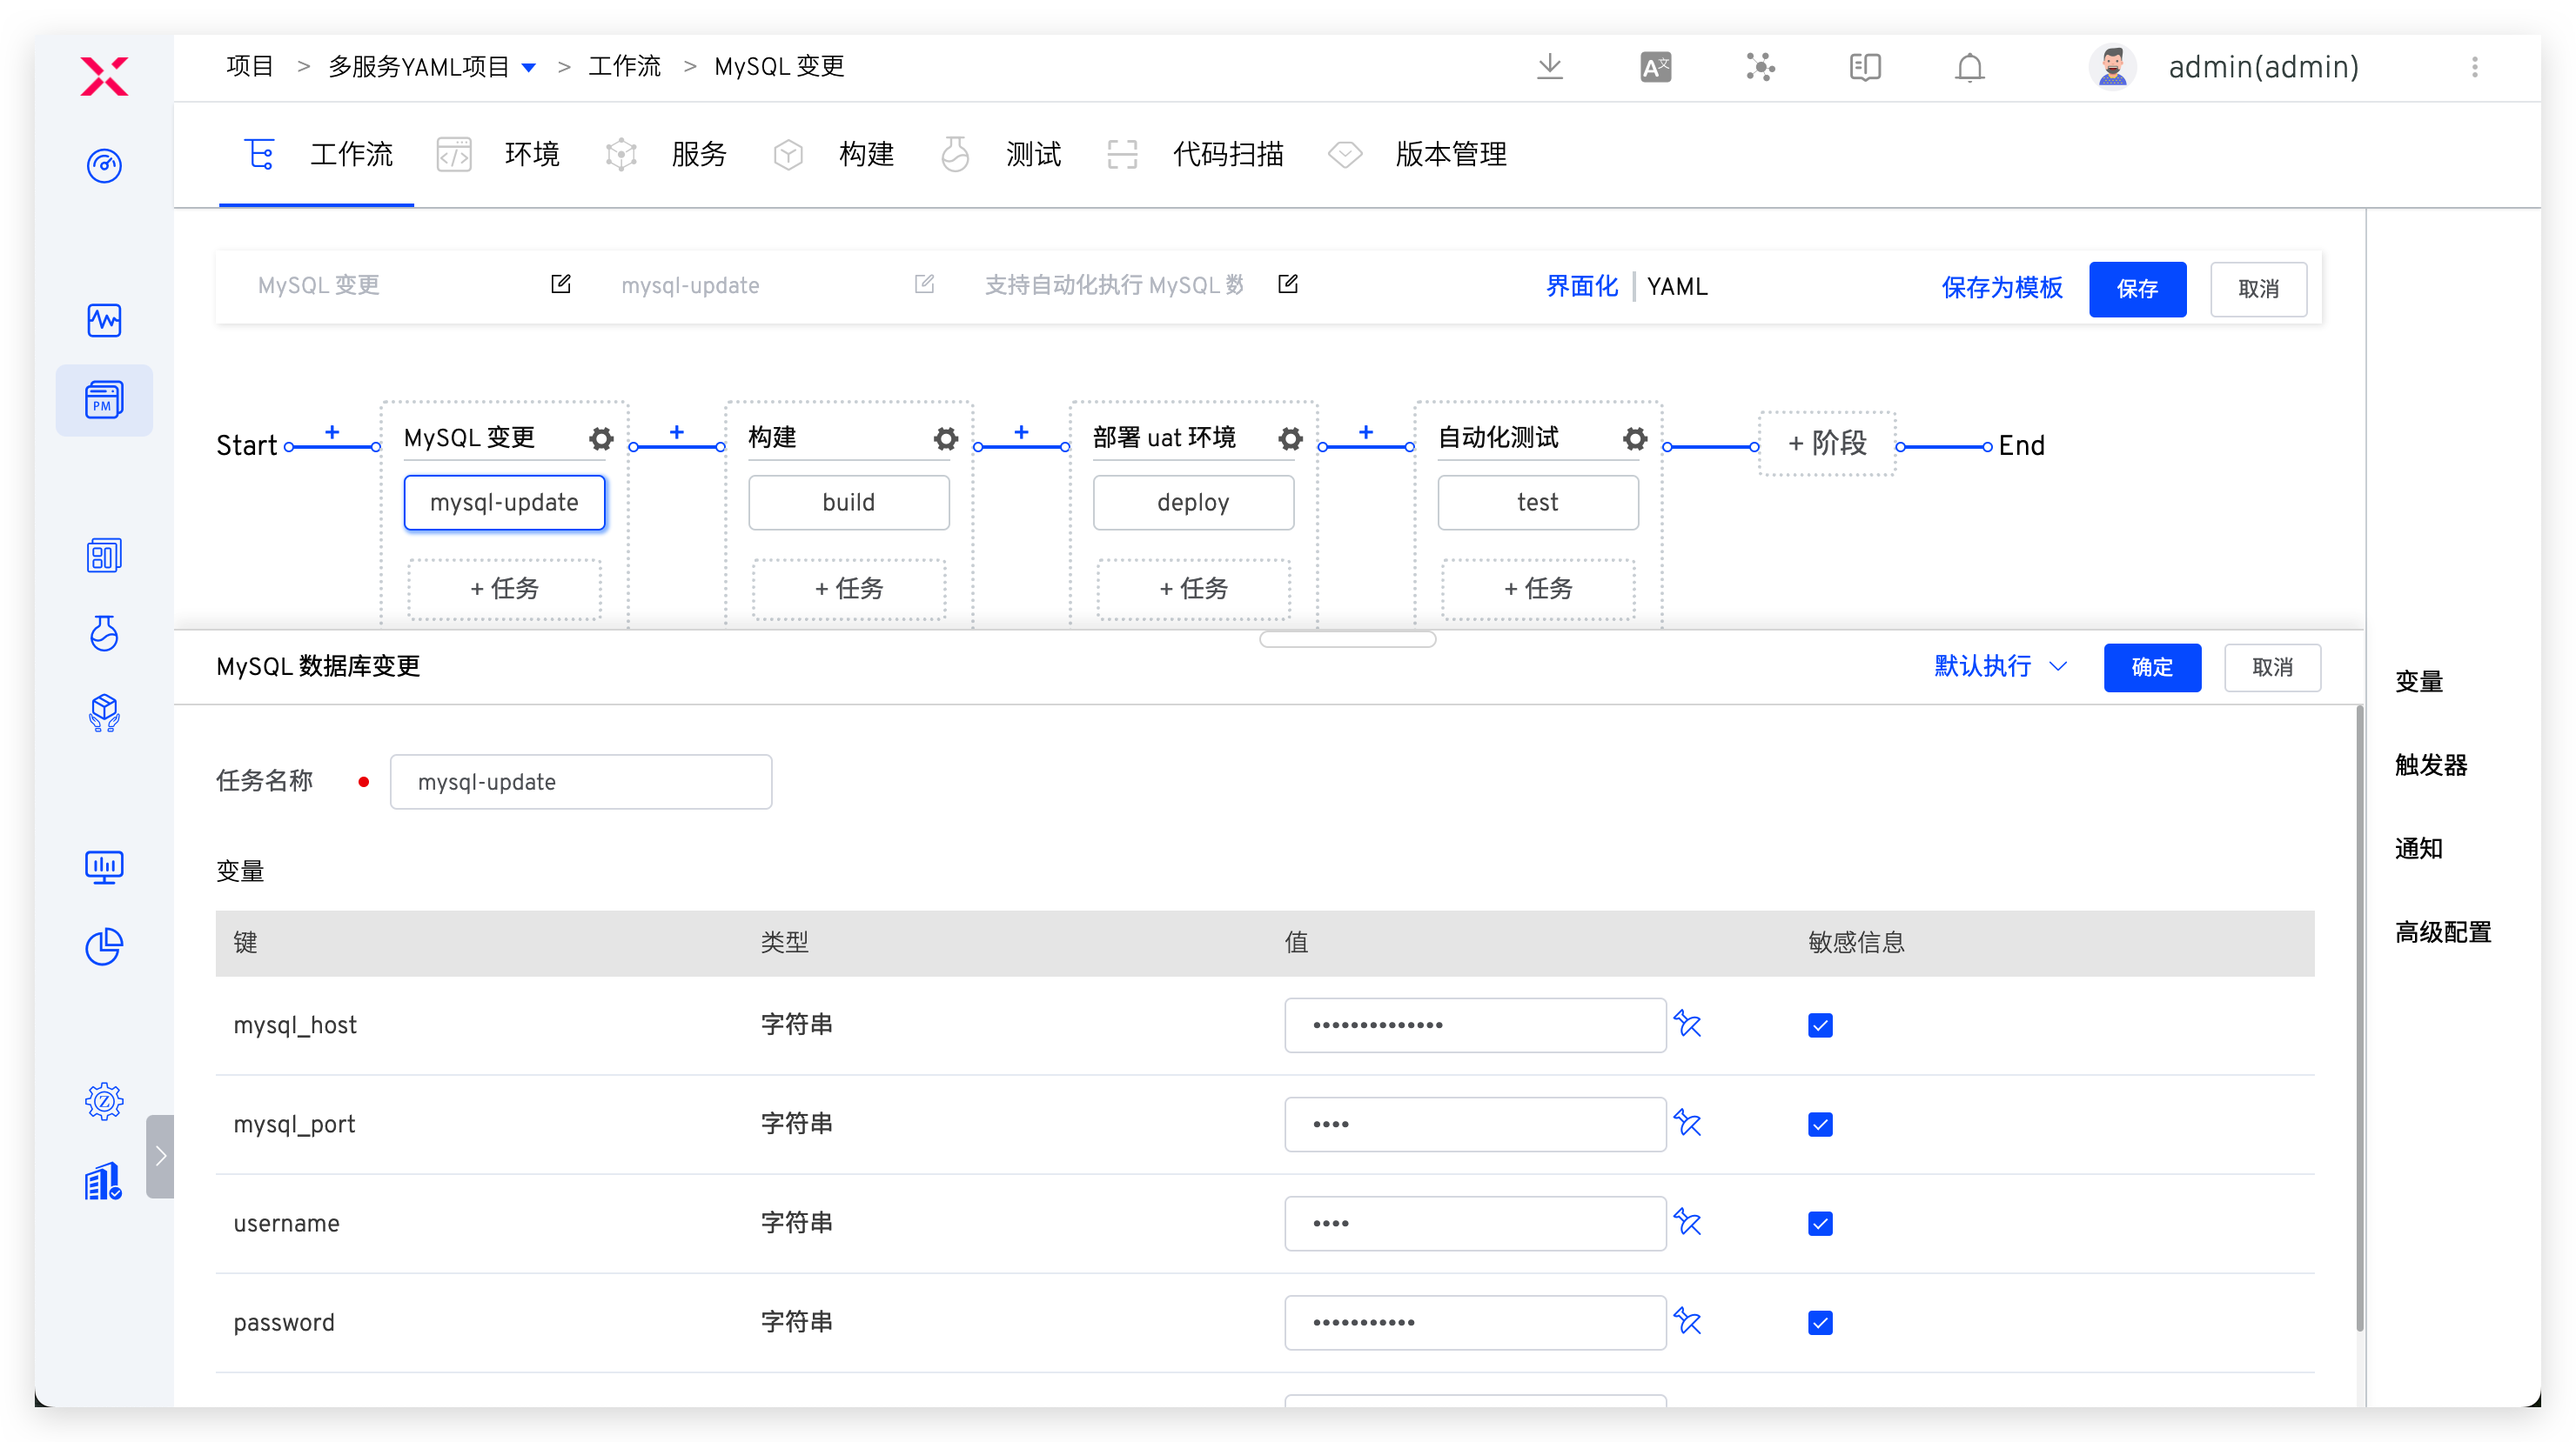
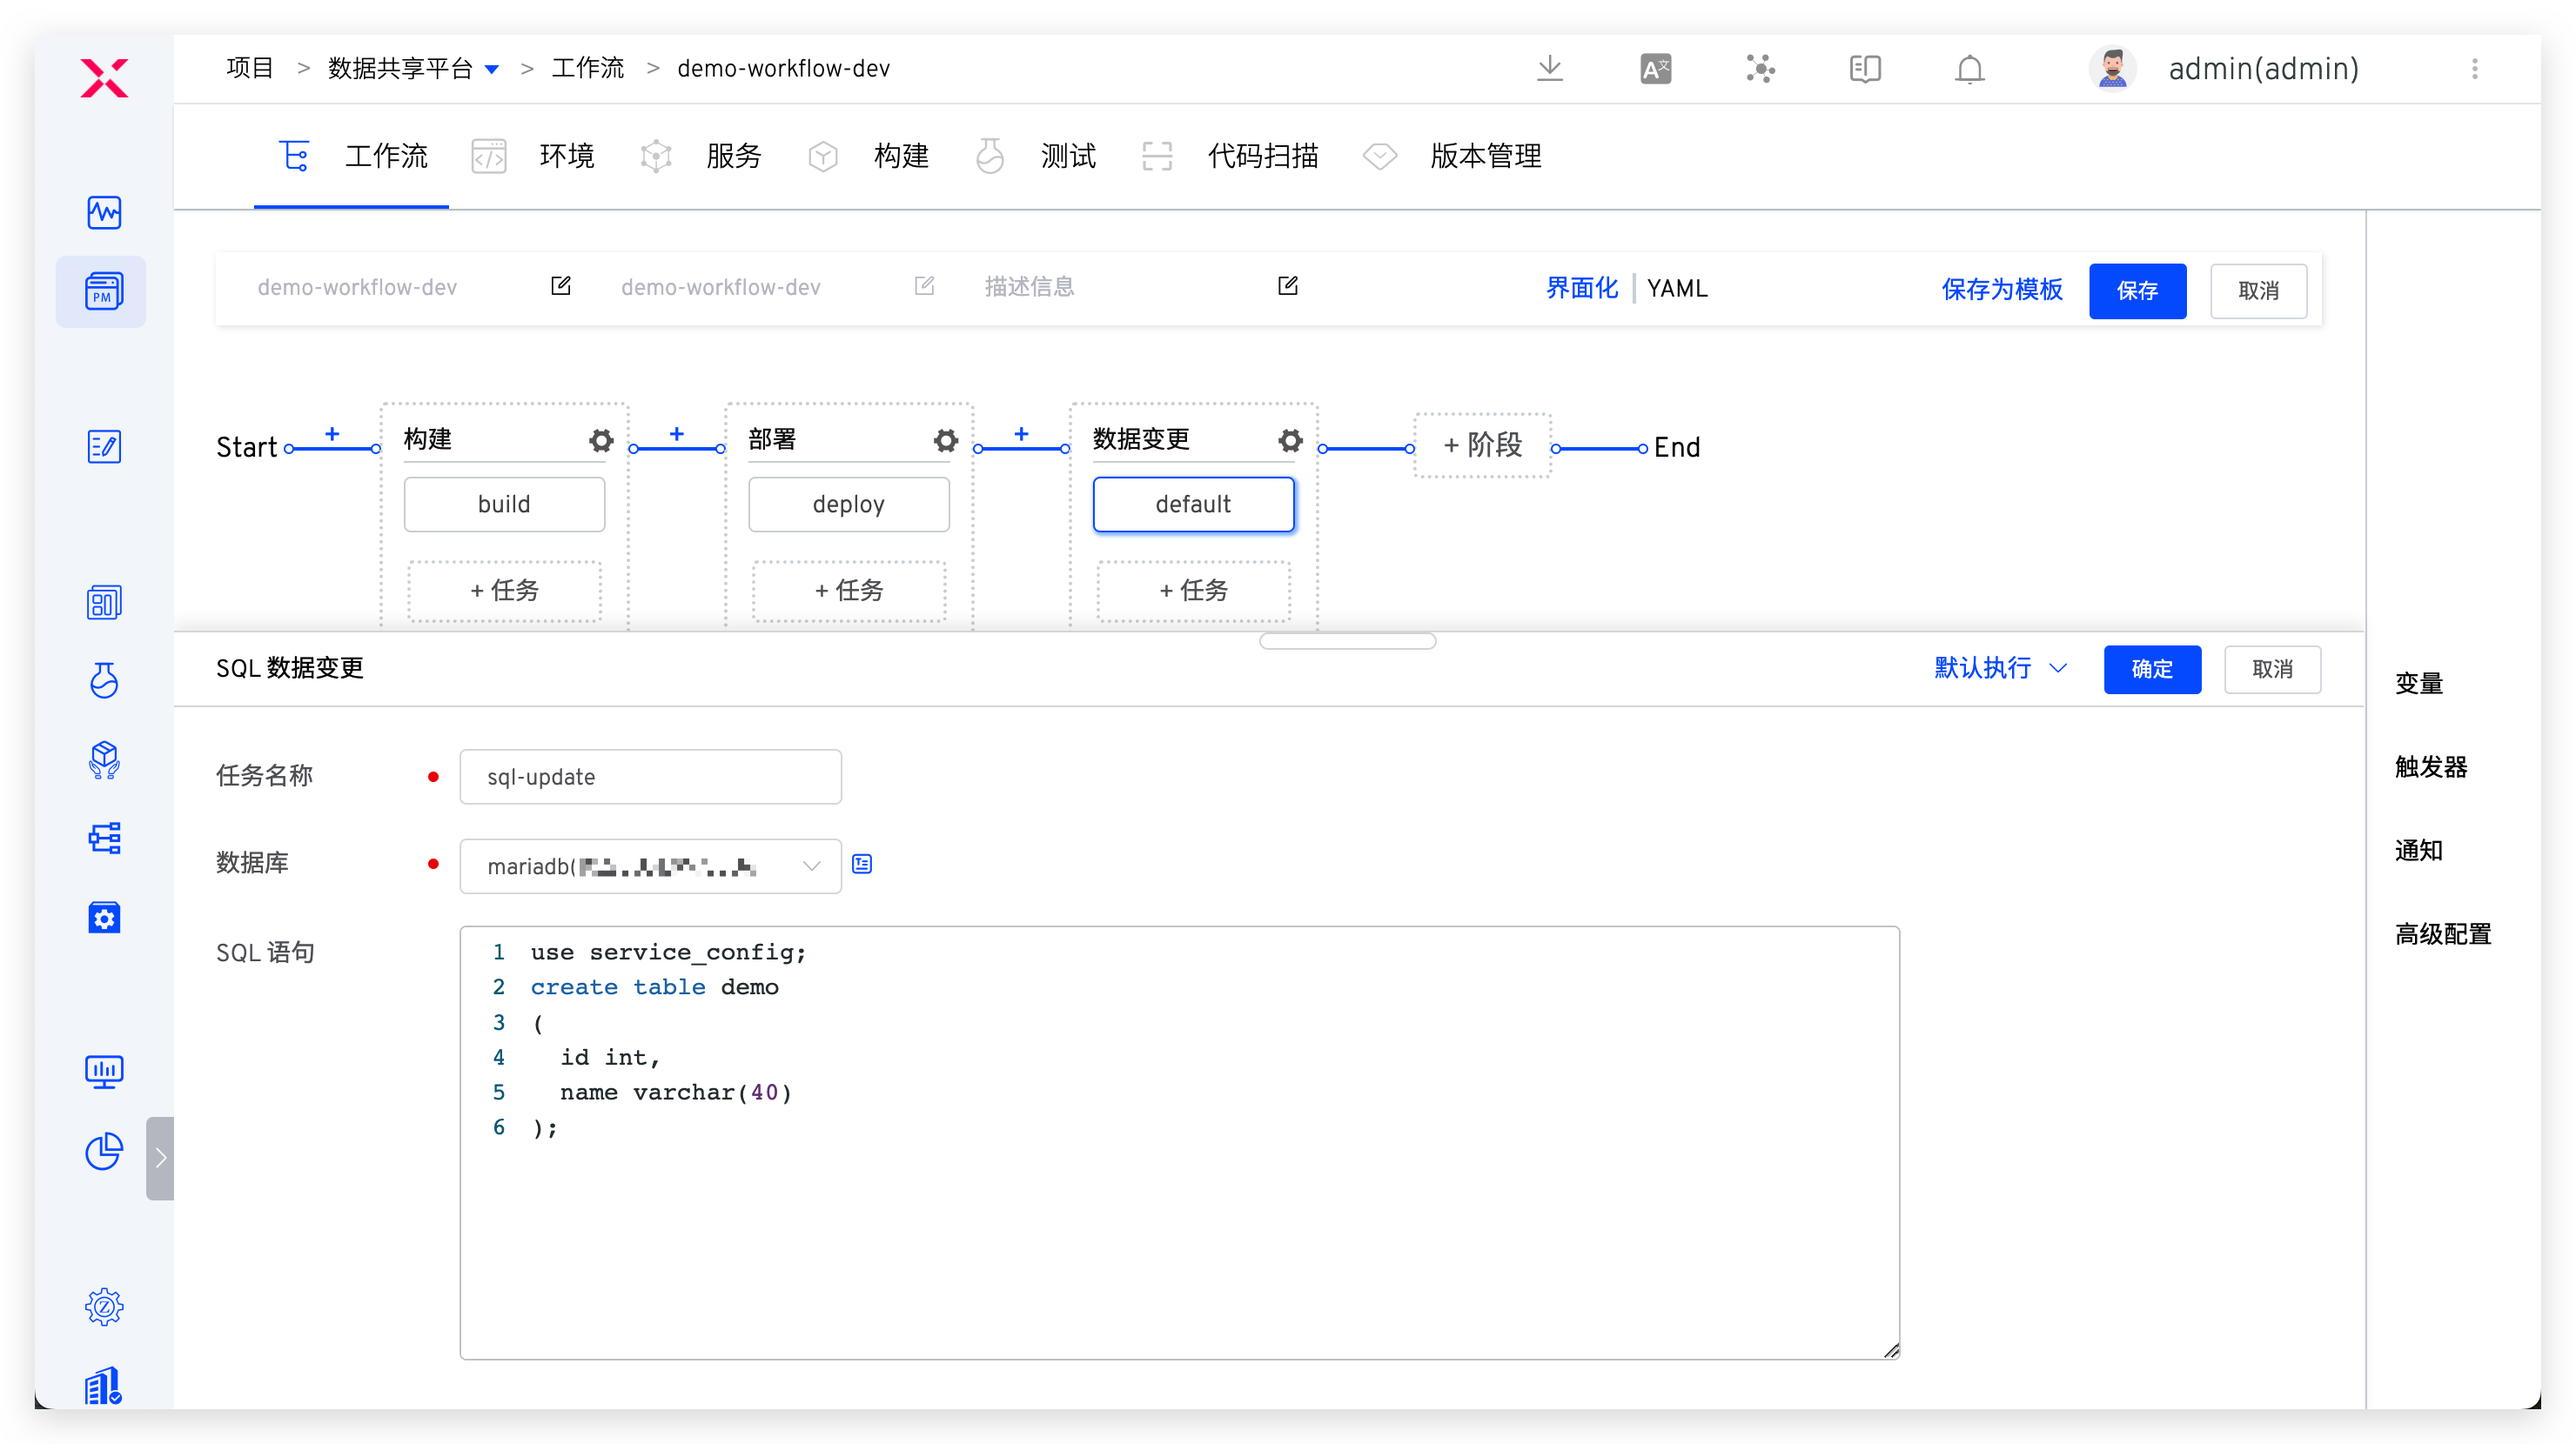
update sql job

diff --git a/ZadigX dev/05.功能介绍/02.工作流/03.workflow_jobs.md b/ZadigX dev/05.功能介绍/02.工作流/03.workflow_jobs.md
@@ -187,17 +187,14 @@ permalink: /ZadigX dev/project/workflow-jobs/
 - `配置`：选择对应的配置，可多选。
 
 ## 数据变更
-### MySQL 数据库变更
-对 MySQL 数据库执行 SQL 语句，实现数据和代码变更联动变更。
+### SQL 数据变更
+可针对指定数据库执行 SQL 命令，结合构建等任务一起使用，可实现数据、代码一站式变更。
 
 ![mysql](../../../_images/mysql_config_01.png)
 
 参数说明：
-- `mysql_host`：数据库地址
-- `mysql_port`：数据库端口号
-- `username`：用户名
-- `password`：密码
-- `query`：SQL语句，支持多行
+- `数据库`：选择要执行变更的数据库，需提前在系统中集成
+- `SQL 语句`：变更的 SQL 语句，支持多行，请在 SQL 语句中指定使用的数据库名称
 
 ### DMS 数据变更工单 
 自动向阿里 DMS 提交 SQL 变更工单并等待工单完成。
@@ -319,7 +316,7 @@ permalink: /ZadigX dev/project/workflow-jobs/
 | JIRA 问题状态变更 | 变更的问题 | - | √ | √ |
 | Nacos 配置变更 | 命名空间 | √ | √ | - |
 |  | 配置默认值 | √ | √ | - |
-| MySQL 数据库变更| 变量 |  √ | √ | √ |
+| SQL 数据变更| 变量 |  √ | √ | √ |
 | DMS 数据变更工单| 变量 |  √ | √ | √ |
 | 通用| 代码源 |  - | √ | √ |
 | | 自定义变量 |  √ | √ | √ |
@@ -340,7 +337,7 @@ permalink: /ZadigX dev/project/workflow-jobs/
 | 构建 | √ |
 | 测试 | √ |
 | 代码扫描 | √ |
-| MySQL 数据库变更 | √ |
+| SQL 数据变更 | √ |
 | DMS 数据变更工单 | √ |
 | 通用任务 | √ |
 | 镜像分发 | √ |
